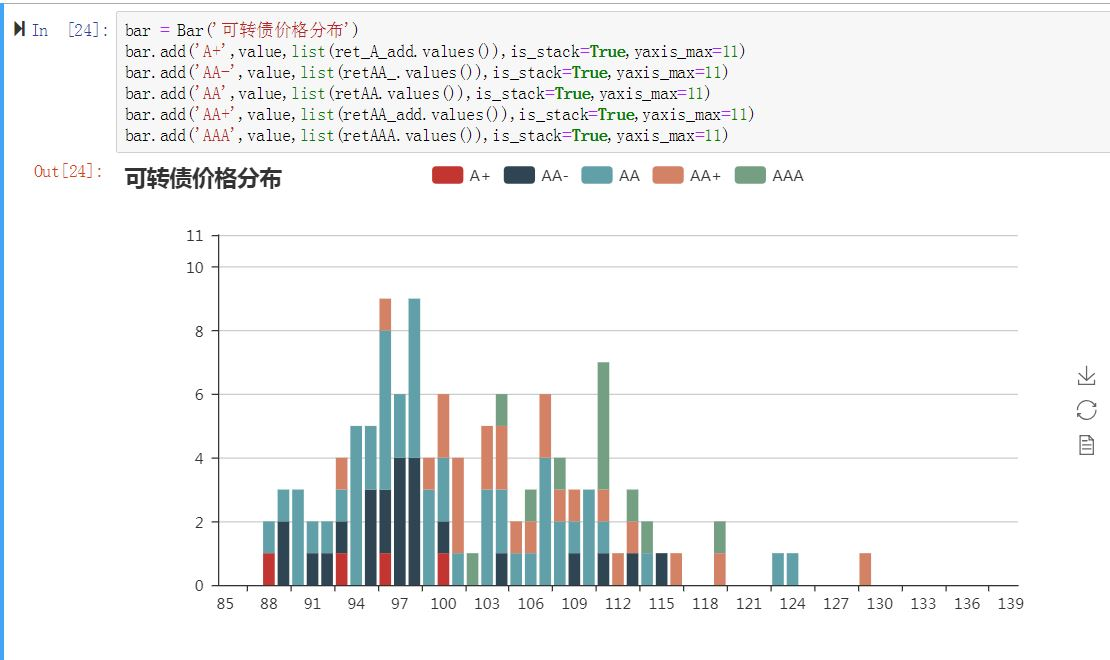
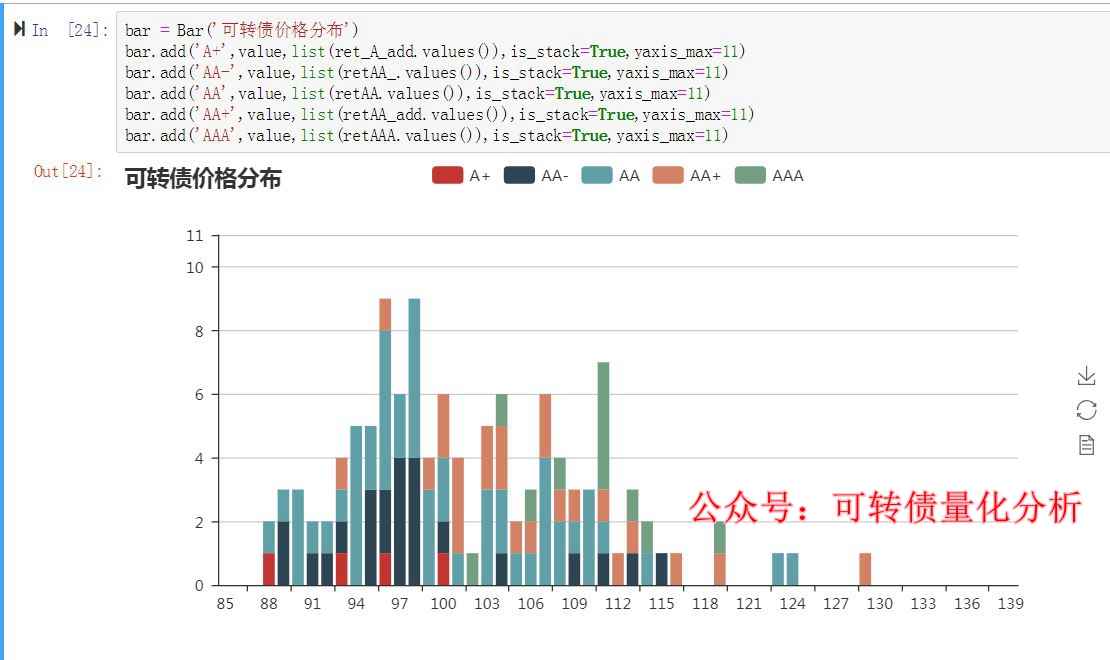
大单监控

Changed region(s): [[0.6126, 0.7273, 0.9802, 0.8182]]

diff --git a/bigdeal.py b/bigdeal.py
@@ -13,7 +13,8 @@ from common.TushareUtil import TushareBaseUtil
 BIG_DEAL = 1000
 
 # 获取的历史天数的数据
-DELTA_DAY = 365*4
+# DELTA_DAY = 365*4 + 30 * 5
+DELTA_DAY = 360
 
 
 class BigDeal(BaseService):
@@ -25,11 +26,11 @@ class BigDeal(BaseService):
         self.db_stock_engine = self.DB.get_engine('db_stock', 'qq')
         self.jisilu_df = self.get_bond()
         self.code_name_dict = dict(zip(list(self.jisilu_df['可转债代码'].values), list(self.jisilu_df['可转债名称'].values)))
-        self.mongodb = self.DB.mongo(type='qq')
+        self.mongodb = self.DB.mongo(type_='local')
 
-    def get_trade_date(self):
+    def get_trade_date(self,end_date=None):
         start_date=datetime.datetime.now() +datetime.timedelta(days=-1*DELTA_DAY)
-        return TushareBaseUtil().get_trade_date(start_date=start_date.strftime('%Y%m%d'))
+        return TushareBaseUtil().get_trade_date(start_date=start_date.strftime('%Y%m%d'),end_date=end_date)
 
     def get_ticks(self, code, date):
         df = ts.get_tick_data(code, date=date, src='tt')
@@ -76,7 +77,7 @@ class BigDeal(BaseService):
                 fs_df = ts.get_tick_data(code, date=date, src='tt')
 
             except Exception as e:
-                self.logger.error('获取tick失败>>>>code={},date'.format(code, date))
+                self.logger.error('获取tick失败>>>>code={},{}'.format(code, date))
                 self.logger.error(e)
                 time.sleep(random.randint(5, 25))
 
@@ -145,7 +146,8 @@ class BigDeal(BaseService):
 
         # 获取历史数据的数据看看
         else:
-            valid_date = self.get_trade_date()
+            last_fetch_day='20210312'
+            valid_date = self.get_trade_date(end_date=last_fetch_day)
             for i in valid_date[::-1]:
                 print('going>>>>{}'.format(i))
                 self.total_bonds(i)

diff --git a/common/TushareUtil.py b/common/TushareUtil.py
@@ -18,13 +18,15 @@ class TushareBaseUtil:
         self.pro = ts.pro_api()
 
 
-    def get_trade_date(self,start_date=None, end_date=datetime.datetime.now().strftime('%Y%m%d')):
+    def get_trade_date(self,start_date=None, end_date=None):
         '''
         返回交易日历
         :param start_date:
         :param end_date:
         :return:
         '''
+        if end_date is None:
+            end_date=datetime.datetime.now().strftime('%Y%m%d')
         df = self.pro.trade_cal(exchange='', is_open='1',start_date=start_date, end_date=end_date)
         return df['cal_date'].tolist()
 

diff --git a/task_big_deal_mongo.py b/task_big_deal_mongo.py
@@ -6,7 +6,7 @@
 
 from bigdeal import BigDeal
 
-use_today = False
+use_today = False # 是否今天最新数据
 def main():
     app = BigDeal()
     app.fetch_bigdeal(today=use_today)

diff --git a/README.MD b/README.MD
@@ -1,16 +1,18 @@
 # 可转债量化分析 低风险投资者
+- 可转债溢价率中位数与转债价格中位数图表
+![ 可转债溢价率中位数与转债价格中位数图表](./static/可转债溢价率中位数与转债价格中位数图表.png)
 
 - 可转债不同评级对应的价格分布图
 ![ 价格分布图 ](./static/可转债价格分布.JPG)
-
-
 
 - 每天可转债价格分布 pyecharts
 ![ 每天价格分布图 ](./static/2020-11-04-1.gif)
 
 
-- 可转债资深玩家 QQ群：613194389
+- 可转债资深玩家 QQ群：613194389 <br><br>
 
-
+## 可转债低费率开户：百万分之二，没有最低收费。关注公众可开户
+## 令提供开通券商量化交易接口，支持python编写实盘交易，有需要可关注公众号
+<br>
 - 公众号：可转债量化分析
 ![ 公众号 ](http://www.30daydo.com/uploads/article/20210329/e42c51f95e6e6b41366ee320c1f01316.jpg)
